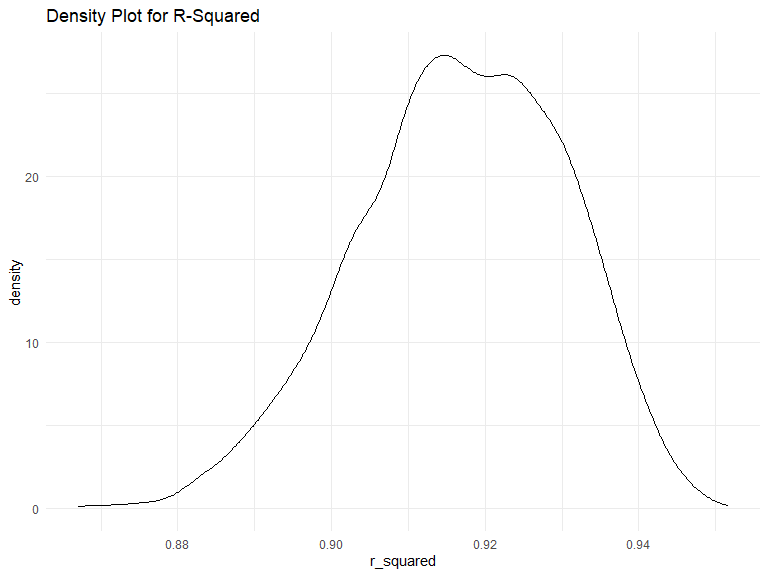
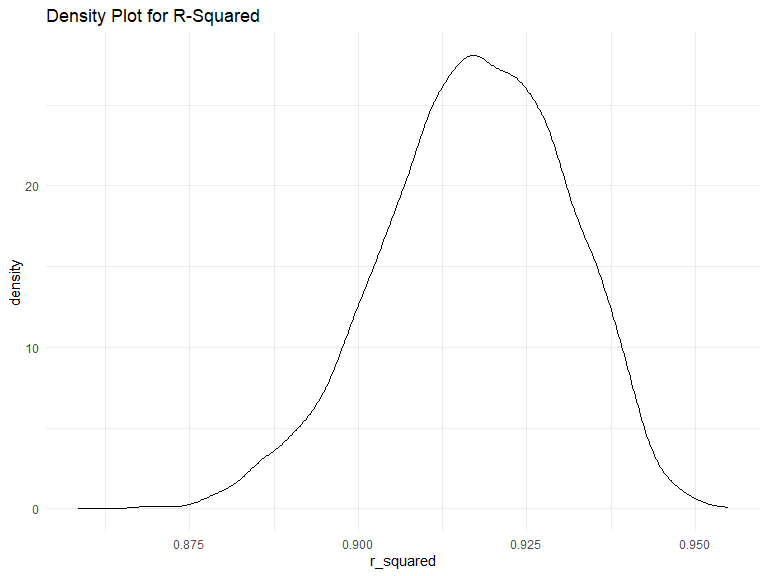
Pushing somme random grammer stuff
To-Do If Time:
1. Update the single in-line code section since not working -- do if you get back tonight before midnight

diff --git a/Homework-6.md b/Homework-6.md
@@ -201,16 +201,16 @@ boot_straps |> pull(strap) |> nth(1) |> as_tibble()
     ## # A tibble: 365 × 6
     ##    name           id          date        prcp  tmax  tmin
     ##    <chr>          <chr>       <date>     <dbl> <dbl> <dbl>
-    ##  1 CentralPark_NY USW00094728 2022-10-25     0  21.1  16.1
-    ##  2 CentralPark_NY USW00094728 2022-09-11    81  24.4  19.4
-    ##  3 CentralPark_NY USW00094728 2022-07-20     0  35    25.6
-    ##  4 CentralPark_NY USW00094728 2022-04-17     0  10.6   5  
-    ##  5 CentralPark_NY USW00094728 2022-01-21     0  -5.5  -9.9
-    ##  6 CentralPark_NY USW00094728 2022-03-01     0   8.9  -0.5
-    ##  7 CentralPark_NY USW00094728 2022-04-28     0  14.4   4.4
-    ##  8 CentralPark_NY USW00094728 2022-05-25     0  21.1  11.7
-    ##  9 CentralPark_NY USW00094728 2022-11-02     0  21.1  12.2
-    ## 10 CentralPark_NY USW00094728 2022-11-09     0  11.7   4.4
+    ##  1 CentralPark_NY USW00094728 2022-04-16    51  22.8   6.7
+    ##  2 CentralPark_NY USW00094728 2022-02-02     0   8.3   0  
+    ##  3 CentralPark_NY USW00094728 2022-05-21     0  32.2  16.7
+    ##  4 CentralPark_NY USW00094728 2022-10-04   470  12.8   7.8
+    ##  5 CentralPark_NY USW00094728 2022-02-16     0   9.4  -2.1
+    ##  6 CentralPark_NY USW00094728 2022-09-11    81  24.4  19.4
+    ##  7 CentralPark_NY USW00094728 2022-11-24     0  12.2   4.4
+    ##  8 CentralPark_NY USW00094728 2022-12-19     0   3.9  -0.5
+    ##  9 CentralPark_NY USW00094728 2022-03-07     8  23.3  10  
+    ## 10 CentralPark_NY USW00094728 2022-08-27     0  32.2  23.3
     ## # ℹ 355 more rows
 
 ``` r
@@ -237,8 +237,8 @@ more quickly perform bootstrapping.
 
 **Initial r_squared and log_12 descriptions** From brief glance at
 dataset, we have very high r_squared values throughout the bootstrapped
-dataframe. Regarding, log_12 values or the Log(Beta1\*Beta2) there are R
-`sum(is.nan(combo[["log_12"]]))`.” Non-Number values that show up due to
+dataframe. Regarding, log_12 values or the Log(Beta1\*Beta2) there are
+`sum(is.nan(combo[["log_12"]]))` Non-Number values that show up due to
 the negative values of Beta_2 (the coeff for the prcp term).
 
 ``` r
@@ -279,14 +279,14 @@ with(combo, quantile(r_squared, c(0.025, 0.50, 0.975), na.rm = TRUE))
 ```
 
     ##      2.5%       50%     97.5% 
-    ## 0.8885617 0.9174401 0.9405191
+    ## 0.8886338 0.9178131 0.9405702
 
 ``` r
 with(combo, quantile(log_12, c(0.025, 0.50, 0.975), na.rm = TRUE))
 ```
 
     ##      2.5%       50%     97.5% 
-    ## -8.894862 -5.868719 -4.572028
+    ## -8.766551 -5.888087 -4.565831
 
 **Note on 95% CI**: In order to provide a 95% CI for r_squared and
 log(beta1\*beta2), i used the `quantile` function. I pulled the quantile
@@ -26467,13 +26467,13 @@ cv_df |> pull(train) |> nth(1) |> as_tibble()
     ##    babysex bhead blength   bwt delwt fincome frace gaweeks malform menarche
     ##    <fct>   <int>   <int> <int> <int>   <int> <chr>   <dbl> <fct>      <int>
     ##  1 Female     34      51  3629   177      35 White    39.9 absent        13
-    ##  2 Male       34      48  3062   156      65 Black    25.9 absent        14
-    ##  3 Female     36      50  3345   148      85 White    39.9 absent        12
+    ##  2 Female     36      50  3345   148      85 White    39.9 absent        12
+    ##  3 Male       34      52  3062   157      55 White    40   absent        14
     ##  4 Female     34      52  3374   156       5 White    41.6 absent        13
     ##  5 Male       33      52  3374   129      55 White    40.7 absent        12
     ##  6 Female     33      46  2523   126      96 Black    40.3 absent        14
     ##  7 Female     33      49  2778   140       5 White    37.4 absent        12
-    ##  8 Male       36      52  3515   146      85 White    40.3 absent        11
+    ##  8 Male       33      50  3459   169      75 Black    40.7 absent        12
     ##  9 Female     35      51  3317   130      55 White    43.4 absent        13
     ## 10 Male       35      51  3459   146      55 White    39.4 absent        12
     ## # ℹ 3,462 more rows
@@ -26487,16 +26487,16 @@ cv_df |> pull(test) |> nth(1) |> as_tibble()
     ## # A tibble: 869 × 18
     ##    babysex bhead blength   bwt delwt fincome frace gaweeks malform menarche
     ##    <fct>   <int>   <int> <int> <int>   <int> <chr>   <dbl> <fct>      <int>
-    ##  1 Male       34      52  3062   157      55 White    40   absent        14
-    ##  2 Male       33      50  3459   169      75 Black    40.7 absent        12
-    ##  3 Male       35      56  3232   147      55 White    42.1 absent        13
-    ##  4 Female     34      51  3005   149      85 White    39.3 absent        14
-    ##  5 Female     34      51  3232   155      55 White    41.6 absent        15
-    ##  6 Female     33      49  3147   140      45 White    40.6 absent        12
-    ##  7 Female     34      49  3317   142      35 White    40.4 absent        12
-    ##  8 Female     34      49  3033   128      25 White    41.1 absent        12
-    ##  9 Male       33      51  3345   140      85 White    38.6 absent        13
-    ## 10 Male       34      52  3118   130      75 White    41   absent        12
+    ##  1 Male       34      48  3062   156      65 Black    25.9 absent        14
+    ##  2 Male       36      52  3515   146      85 White    40.3 absent        11
+    ##  3 Male       36      53  3629   147      75 White    41.3 absent        11
+    ##  4 Female     33      49  2948   129      25 White    41   absent        13
+    ##  5 Female     35      52  3289   135      55 White    40.6 absent        13
+    ##  6 Female     35      53  3600   141      35 White    42.3 absent        14
+    ##  7 Male       35      52  3232   121      75 Asian    42.3 absent        13
+    ##  8 Female     33      49  3147   140      45 White    40.6 absent        12
+    ##  9 Male       35      51  3147   165      65 White    40.1 absent        13
+    ## 10 Female     35      52  3487   121      45 White    39.9 absent        11
     ## # ℹ 859 more rows
     ## # ℹ 8 more variables: mheight <int>, momage <int>, mrace <chr>, parity <int>,
     ## #   ppbmi <dbl>, ppwt <int>, smoken <dbl>, wtgain <int>
